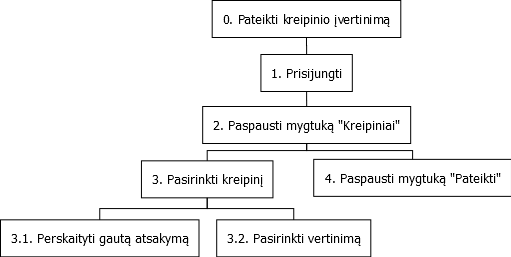
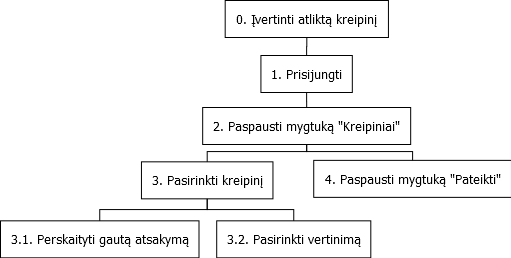
Aprasiau kliento maketus

diff --git a/docs/zmogaus-kompiuterio-saveika/hierarch-uzd-analize-ir-maketas/maketas.tex b/docs/zmogaus-kompiuterio-saveika/hierarch-uzd-analize-ir-maketas/maketas.tex
@@ -55,25 +55,27 @@
 
 	\subsubsection{Pateikti kreipinį}
 	
-	Klientui norint pateikti kreipinį reikia pasinkti kreipinio tipą:
+	\insertPicture[0.8]{maketas-klientas-naujas_kreipinys.png}{Naujo kreipinio pateikimo maketas}
+	
+	Klientui, norint pateikti kreipinį, reikia paspausti mygtuką "Kreipiniai" ir tada mygtuką "Naujas kreipinys".
+	Dešinėje lango pusėje atsiranda naujo kreipinio forma. Joje reikia užpildyti laukus:
 	
 	\begin{itemize}
-		\item paslaugos neveikimas (incidentas - INC)
-		\item informacijos suteikimas (paklausimas - REQ)
+		\item Įrašyti temą
+		\item Aprašyti kreipinį
+		\item Pasirinkti paslaugą
+		\item Pasirinkti kreipinio tipą
 	\end{itemize}
 	
-	\insertPicture[0.8]{maketas-klientas-INC.png}{INC tipo kreipinių pateikimo maketas}
-	
-	Pasirinkus INC tipą pereinama į incidento aprašymo langą \referToPicture{maketas-klientas-INC.png}
-	Kairėje lango pusėje reikia pasirinkti paslaugą, su kuria yra susijęs incidentas, o dešinėje jį aprašyti.
-	Paspaudus mygtuką "Siųsti" kreipinys bus išsiųstas.
-	Taip pat lango dešinėje apatinėje dalyje galima peržiūrėti išsiųstus INC tipo kreipinius, bei gautus atsakymus paspaudus ant jų.
-	
-	\insertPicture[0.8]{maketas-klientas-REQ.png}{REQ tipo kreipinių pateikimo maketas}
+	Užpildžius naujo kreipinio formą reikia paspausti mygtuką "Siųsti".
 
-	Pasirinkus REQ tipą pereinama į paklausimo aprašymo langą \referToPicture{maketas-klientas-REQ.png}
-	Viduryje lango yra didelis tekstinis laukas į kurį iš karto galimą rašyti norimą klausimą, o jį parašius išsiųsti, paspaudus mygtuką "Siųsti".
-	Apatinėje lango dalyje galima peržiūrėti išsiųstus REQ tipo kreipinius, bei gautus atsakymus paspaudus ant jų.
+	\subsubsection{Įvertinti atliktą kreipinį}
+	
+	\insertPicture[0.8]{maketas-klientas-ivertinti.png}{Atlikto kreipinio įvertinimas}
+	
+	Klientui, norint įvertinti atliktą kreipinį, reikia paspausti mygtuką "Kreipiniai" ir tada pasirinkti kreipinį.
+	Dešinėje lango pusėje atsiranda laukas su išsiųstu kreipinio aprašymu, gautu atsakymu ir vertinimo forma.
+	Vertinant atliktą kreipinį reikia perskaityti gautą atsakymą, vertinimo formoje pasirinkti įvertinimą ir paspausti mygtuką "Pateikti".
 	
 \subsection{Administratorius}
 
